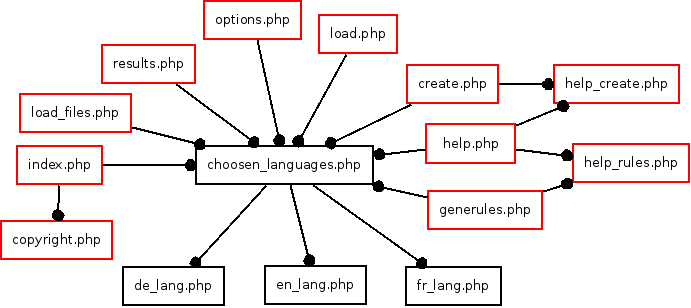
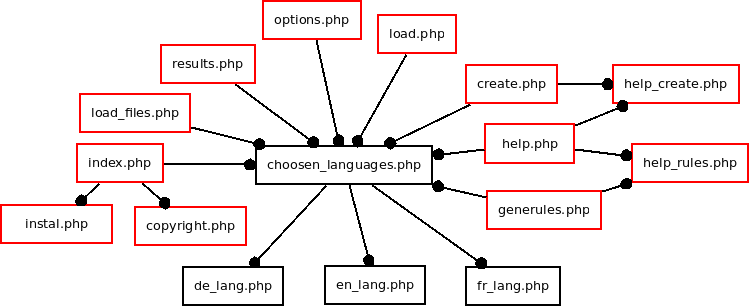
ajout aide installation et mise à jour des impr ecran

diff --git a/Rapport/conception.tex b/Rapport/conception.tex
@@ -33,7 +33,9 @@ Le menu contient quatre onglets:
 \item \emph{Chargement} qui permet de charger un réseau pré-existant,
 \item \emph{Aide} qui permet de consulter une aide à l'utilisation du site.
 \end{itemize}
-On trouve aussi dans le menu, trois drapeaux qui permettent de changer la langue du site Web. Les trois langues proposées sont: l'anglais, le français et l'allemand. Par défaut le site est en français.
+On trouve aussi dans le menu, trois drapeaux qui permettent de changer la langue du site Web. Les trois langues proposées sont: l'anglais, le français et l'allemand. Par défaut le site est en français.\\
+
+Nous avons également ajouté un lien vers une page contenant le \textit{copyright} de notre site, et un autre menant à une page de précisions sur la configuration requise à l'utilisation de l'interface. 
 
 %~~~~~~~~~~~~~~~~~~~~~~~~~~~~~
 \section{Création d'un nouveau réseau}
